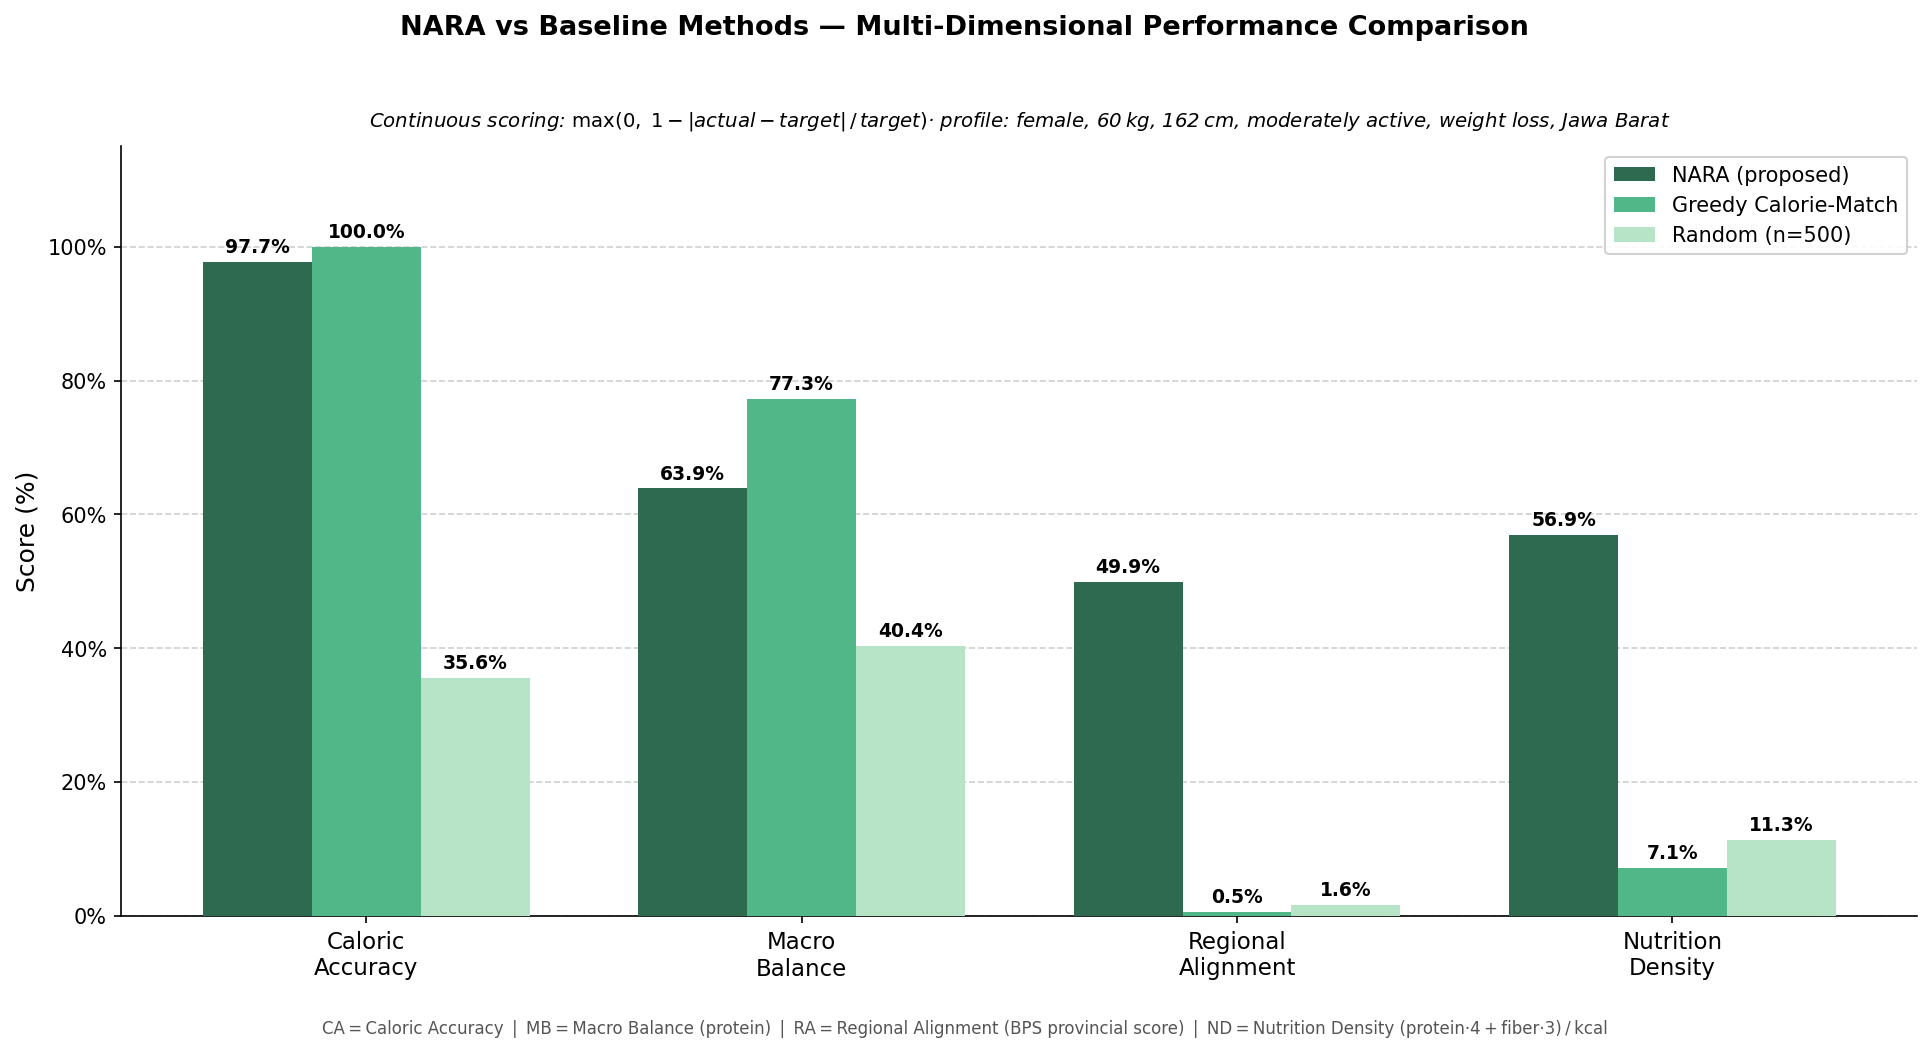
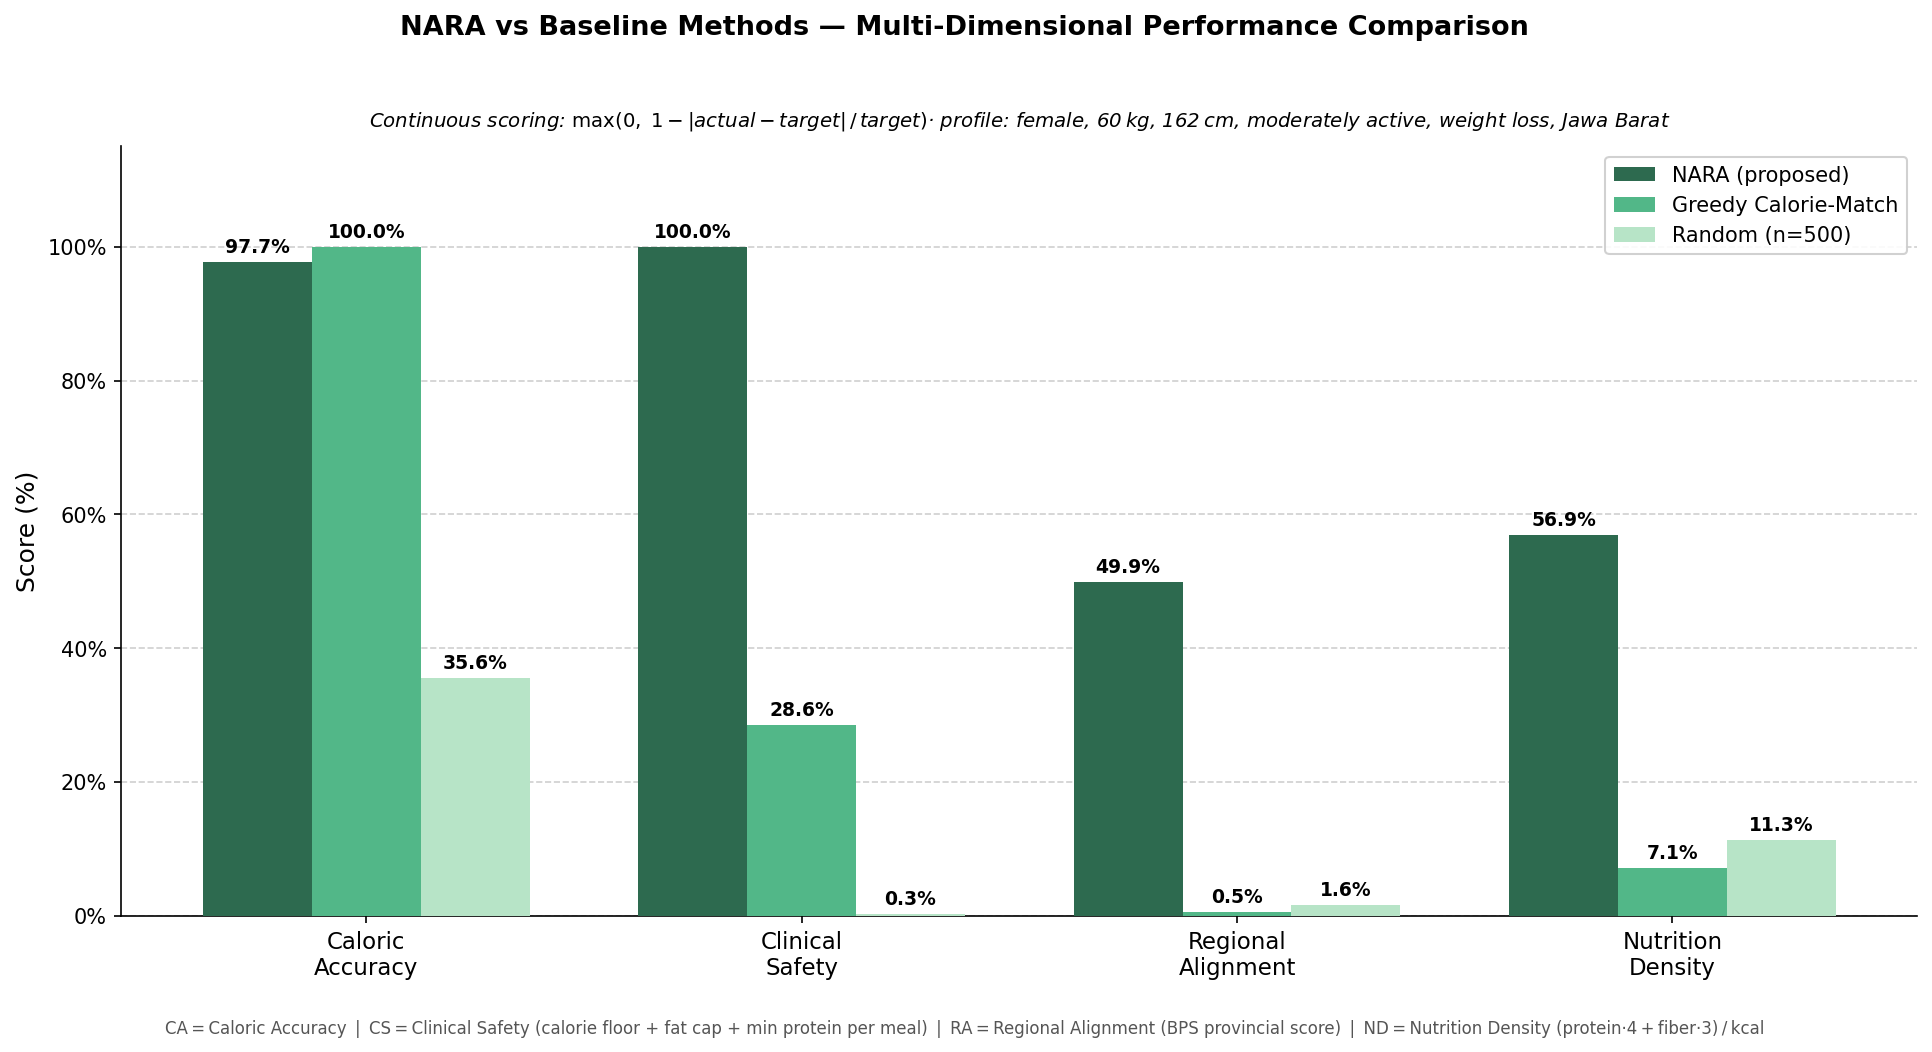
feat(benchmark): replace Macro Balance with Clinical Safety metric in comparison chart
CS measures proportion of meals satisfying all 3 constraints: calorie floor,
fat cap (<=125% target), and minimum protein (>=70% target). Results:
NARA 100% vs Greedy 28.6% vs Random 0.3%.

Changed region(s): [[0.3106, 0.2129, 0.4969, 0.8821], [0.0932, 0.9734, 0.9006, 1.0], [0.3727, 0.8821, 0.4348, 0.943]]

diff --git a/ai-engine/docs/generate_charts.py b/ai-engine/docs/generate_charts.py
@@ -85,8 +85,21 @@ def ca(delivered, target):
     return max(0.0, 1.0 - abs(delivered - target) / max(target, 1.0))
 
 
-def mb(delivered_prot, target_prot):
-    return max(0.0, 1.0 - abs(delivered_prot - target_prot) / max(target_prot, 1.0))
+def mb_all(dp, df, dc, tp, tf, tc):
+    """Macro Balance: average accuracy across protein, fat, and carbohydrates."""
+    p = max(0.0, 1.0 - abs(dp - tp) / max(tp, 1.0))
+    f = max(0.0, 1.0 - abs(df - tf) / max(tf, 1.0))
+    c = max(0.0, 1.0 - abs(dc - tc) / max(tc, 1.0))
+    return (p + f + c) / 3.0
+
+
+def clinical_safety(cal, prot, fat, floor_cal, t_prot, t_fat):
+    """1.0 if meal satisfies all 3 clinical constraints, 0.0 otherwise.
+    Constraints: calorie floor, fat cap (<=125% target), min protein (>=70% target)."""
+    ok_cal  = cal  >= floor_cal
+    ok_fat  = fat  <= t_fat * 1.25
+    ok_prot = prot >= t_prot * 0.70
+    return 1.0 if (ok_cal and ok_fat and ok_prot) else 0.0
 
 
 def greedy_format(row, cat, t_cal, t_prot):
@@ -94,22 +107,31 @@ def greedy_format(row, cat, t_cal, t_prot):
     Reserve 155 kcal for veg (25) + minimum nasi (100g = 130) so the full meal
     hits t_cal, not just the raw recipe component."""
     bw = base_weight(cat)
-    rc = row['Recipe Caloric Value'] * (bw / 100.0)
-    rp = row['Recipe Protein'] * (bw / 100.0)
+    rc  = row['Recipe Caloric Value']      * (bw / 100.0)
+    rp  = row['Recipe Protein']            * (bw / 100.0)
+    rf  = row['Recipe Fat']                * (bw / 100.0)
+    rch = row['Recipe Carbohydrates']      * (bw / 100.0)
 
-    # Scale recipe to leave room for mandatory veg + min nasi
     cal_for_recipe = max(t_cal - 155.0, t_cal * 0.5)
     sf = max(0.5, min(2.0, round(cal_for_recipe / max(rc, 1.0), 1)))
-    sc = rc * sf
-    sp = rp * sf
+    sc  = rc  * sf
+    sp  = rp  * sf
+    sf_ = rf  * sf
+    sch = rch * sf
 
-    veg_cal, veg_prot = 25.0, 2.0
+    veg_cal, veg_prot, veg_fat, veg_carb = 25.0, 2.0, 0.2, 4.0
     cal_gap = t_cal - sc - veg_cal
-    nasi_g = min(300.0, max(100.0, cal_gap / 1.30))
+    nasi_g    = min(300.0, max(100.0, cal_gap / 1.30))
     nasi_cal  = 130.0 * (nasi_g / 100.0)
     nasi_prot =   2.7 * (nasi_g / 100.0)
+    nasi_fat  =   0.3 * (nasi_g / 100.0)
+    nasi_carb =  28.0 * (nasi_g / 100.0)
 
-    return sc + veg_cal + nasi_cal, sp + veg_prot + nasi_prot
+    total_cal  = sc  + veg_cal  + nasi_cal
+    total_prot = sp  + veg_prot + nasi_prot
+    total_fat  = sf_ + veg_fat  + nasi_fat
+    total_carb = sch + veg_carb + nasi_carb
+    return total_cal, total_prot, total_fat, total_carb
 
 
 # ─────────────────────────────────────────────────────────────
@@ -127,7 +149,12 @@ def main():
     )
     t_cal  = targets['caloric_target_meal']
     t_prot = targets['protein_target_meal']
-    print(f"Targets/meal: {t_cal:.1f} kcal | P: {t_prot:.1f}g")
+    t_fat  = targets['fat_target_meal']
+    t_carb = targets['carbohydrates_target_meal']
+    # Calorie floor per meal (sex-based: 1600M / 1400F, split across 3 meals)
+    min_daily = 1600.0 if PROFILE['sex'].lower() == 'male' else 1400.0
+    floor_cal  = min_daily / 3.0
+    print(f"Targets/meal: {t_cal:.1f} kcal | P: {t_prot:.1f}g | F: {t_fat:.1f}g | C: {t_carb:.1f}g | Floor: {floor_cal:.1f} kcal")
 
     prov_key = _norm_prov(PROFILE['province'])
     prov_consumption = engine.consumption_map.get(prov_key, engine.consumption_map.get('nasional', {}))
@@ -145,9 +172,10 @@ def main():
     gn_meals = gn_res['primary_schedule']
 
     gn_ca  = np.mean([ca(m['calories_per_serving'], t_cal) for m in gn_meals])
-    gn_mb  = np.mean([mb(m['protein_per_serving'],  t_prot) for m in gn_meals])
+    gn_mb  = np.mean([mb_all(m['protein_per_serving'], m['fat_per_serving'], m['carbs_per_serving'], t_prot, t_fat, t_carb) for m in gn_meals])
     gn_ra  = np.mean([m['regional_alignment_score'] / 100.0 for m in gn_meals])
     gn_nd  = np.mean([m['density'] / max_density for m in gn_meals])
+    gn_cs  = np.mean([clinical_safety(m['calories_per_serving'], m['protein_per_serving'], m['fat_per_serving'], floor_cal, t_prot, t_fat) for m in gn_meals])
     gn_score = sum(m['score'] for m in gn_meals)
 
     # ── 1b. NARA + Local Search ───────────────────────────────
@@ -156,9 +184,10 @@ def main():
     nara_meals = nara_res['primary_schedule']
 
     nara_ca  = np.mean([ca(m['calories_per_serving'], t_cal) for m in nara_meals])
-    nara_mb  = np.mean([mb(m['protein_per_serving'],  t_prot) for m in nara_meals])
+    nara_mb  = np.mean([mb_all(m['protein_per_serving'], m['fat_per_serving'], m['carbs_per_serving'], t_prot, t_fat, t_carb) for m in nara_meals])
     nara_ra  = np.mean([m['regional_alignment_score'] / 100.0 for m in nara_meals])
     nara_nd  = np.mean([m['density'] / max_density for m in nara_meals])
+    nara_cs  = np.mean([clinical_safety(m['calories_per_serving'], m['protein_per_serving'], m['fat_per_serving'], floor_cal, t_prot, t_fat) for m in nara_meals])
     nara_score = sum(m['score'] for m in nara_meals)
     nara_cals = [m['calories_per_serving'] for m in nara_meals]
 
@@ -181,59 +210,64 @@ def main():
         if len(greedy_sel) >= 7:
             break
 
-    g_cals, g_prots, g_ras, g_nd = [], [], [], []
+    g_cals, g_prots, g_fats, g_carbs, g_ras, g_nd = [], [], [], [], [], []
     for idx, row, cat, nras in greedy_sel:
-        gc, gp = greedy_format(row, cat, t_cal, t_prot)
-        g_cals.append(gc)
-        g_prots.append(gp)
+        gc, gp, gf, gch = greedy_format(row, cat, t_cal, t_prot)
+        g_cals.append(gc); g_prots.append(gp)
+        g_fats.append(gf); g_carbs.append(gch)
         g_ras.append(nras)
         g_nd.append(row['Recipe Nutrition Density'] / max_density)
 
-    greedy_ca = np.mean([ca(c, t_cal)  for c in g_cals])
-    greedy_mb = np.mean([mb(p, t_prot) for p in g_prots])
+    greedy_ca = np.mean([ca(c, t_cal) for c in g_cals])
+    greedy_mb = np.mean([mb_all(p, f, c, t_prot, t_fat, t_carb) for p, f, c in zip(g_prots, g_fats, g_carbs)])
     greedy_ra = np.mean(g_ras)
     greedy_nd = np.mean(g_nd)
+    greedy_cs = np.mean([clinical_safety(c, p, f, floor_cal, t_prot, t_fat) for c, p, f in zip(g_cals, g_prots, g_fats)])
 
     # ── 3. Random (n=500) ─────────────────────────────────────
     print(f"Running Random baseline (n={N_RANDOM}) ...")
-    r_ca_all, r_mb_all, r_ra_all, r_nd_all = [], [], [], []
+    r_ca_all, r_mb_all, r_ra_all, r_nd_all, r_cs_all = [], [], [], [], []
     r_cals_all = []
 
     pidx = list(range(len(pool_aug)))
     for _ in range(N_RANDOM):
         chosen = rng.sample(pidx, min(7, len(pidx)))
-        tc, tp, tr, tn = [], [], [], []
+        tc, tp, tf, tch, tr, tn = [], [], [], [], [], []
         for pi in chosen:
             idx, row, cat, nras = pool_aug[pi]
             bw = base_weight(cat)
-            rc = row['Recipe Caloric Value'] * (bw / 100.0)
-            rp = row['Recipe Protein']      * (bw / 100.0)
-            tc.append(rc); tp.append(rp)
+            rc  = row['Recipe Caloric Value'] * (bw / 100.0)
+            rp  = row['Recipe Protein']       * (bw / 100.0)
+            rf  = row['Recipe Fat']           * (bw / 100.0)
+            rch = row['Recipe Carbohydrates'] * (bw / 100.0)
+            tc.append(rc); tp.append(rp); tf.append(rf); tch.append(rch)
             tr.append(nras)
             tn.append(row['Recipe Nutrition Density'] / max_density)
-        r_ca_all.append(np.mean([ca(c, t_cal)  for c in tc]))
-        r_mb_all.append(np.mean([mb(p, t_prot) for p in tp]))
+        r_ca_all.append(np.mean([ca(c, t_cal) for c in tc]))
+        r_mb_all.append(np.mean([mb_all(p, f, c, t_prot, t_fat, t_carb) for p, f, c in zip(tp, tf, tch)]))
         r_ra_all.append(np.mean(tr))
         r_nd_all.append(np.mean(tn))
+        r_cs_all.append(np.mean([clinical_safety(c, p, f, floor_cal, t_prot, t_fat) for c, p, f in zip(tc, tp, tf)]))
         r_cals_all.append(tc)
 
     random_ca = np.mean(r_ca_all)
     random_mb = np.mean(r_mb_all)
     random_ra = np.mean(r_ra_all)
     random_nd = np.mean(r_nd_all)
+    random_cs = np.mean(r_cs_all)
     random_cals_mean = np.mean(r_cals_all, axis=0)  # shape (7,)
 
-    print(f"\nNARA  : CA={nara_ca*100:.1f}%  MB={nara_mb*100:.1f}%  RA={nara_ra*100:.1f}%  ND={nara_nd*100:.1f}%")
-    print(f"Greedy: CA={greedy_ca*100:.1f}%  MB={greedy_mb*100:.1f}%  RA={greedy_ra*100:.1f}%  ND={greedy_nd*100:.1f}%")
-    print(f"Random: CA={random_ca*100:.1f}%  MB={random_mb*100:.1f}%  RA={random_ra*100:.1f}%  ND={random_nd*100:.1f}%")
+    print(f"\nNARA  : CA={nara_ca*100:.1f}%  RA={nara_ra*100:.1f}%  ND={nara_nd*100:.1f}%  CS={nara_cs*100:.1f}%")
+    print(f"Greedy: CA={greedy_ca*100:.1f}%  RA={greedy_ra*100:.1f}%  ND={greedy_nd*100:.1f}%  CS={greedy_cs*100:.1f}%")
+    print(f"Random: CA={random_ca*100:.1f}%  RA={random_ra*100:.1f}%  ND={random_nd*100:.1f}%  CS={random_cs*100:.1f}%")
 
     # ─────────────────────────────────────────────────────────
     # Chart 1 — Multi-Dimensional Algorithm Comparison
     # ─────────────────────────────────────────────────────────
-    metrics    = ['Caloric\nAccuracy', 'Macro\nBalance', 'Regional\nAlignment', 'Nutrition\nDensity']
-    nara_vals  = [nara_ca,   nara_mb,   nara_ra,   nara_nd  ]
-    greedy_vals= [greedy_ca, greedy_mb, greedy_ra, greedy_nd]
-    random_vals= [random_ca, random_mb, random_ra, random_nd]
+    metrics    = ['Caloric\nAccuracy', 'Clinical\nSafety', 'Regional\nAlignment', 'Nutrition\nDensity']
+    nara_vals  = [nara_ca,   nara_cs,   nara_ra,   nara_nd  ]
+    greedy_vals= [greedy_ca, greedy_cs, greedy_ra, greedy_nd]
+    random_vals= [random_ca, random_cs, random_ra, random_nd]
 
     x   = np.arange(len(metrics))
     w   = 0.25
@@ -274,7 +308,7 @@ def main():
     )
 
     footnote = ('CA = Caloric Accuracy | '
-                'MB = Macro Balance (protein) | '
+                'CS = Clinical Safety (calorie floor + fat cap + min protein per meal) | '
                 'RA = Regional Alignment (BPS provincial score) | '
                 'ND = Nutrition Density (protein·4 + fiber·3) / kcal')
     fig.text(0.5, 0.01, footnote, ha='center', fontsize=8, color='#555555')
